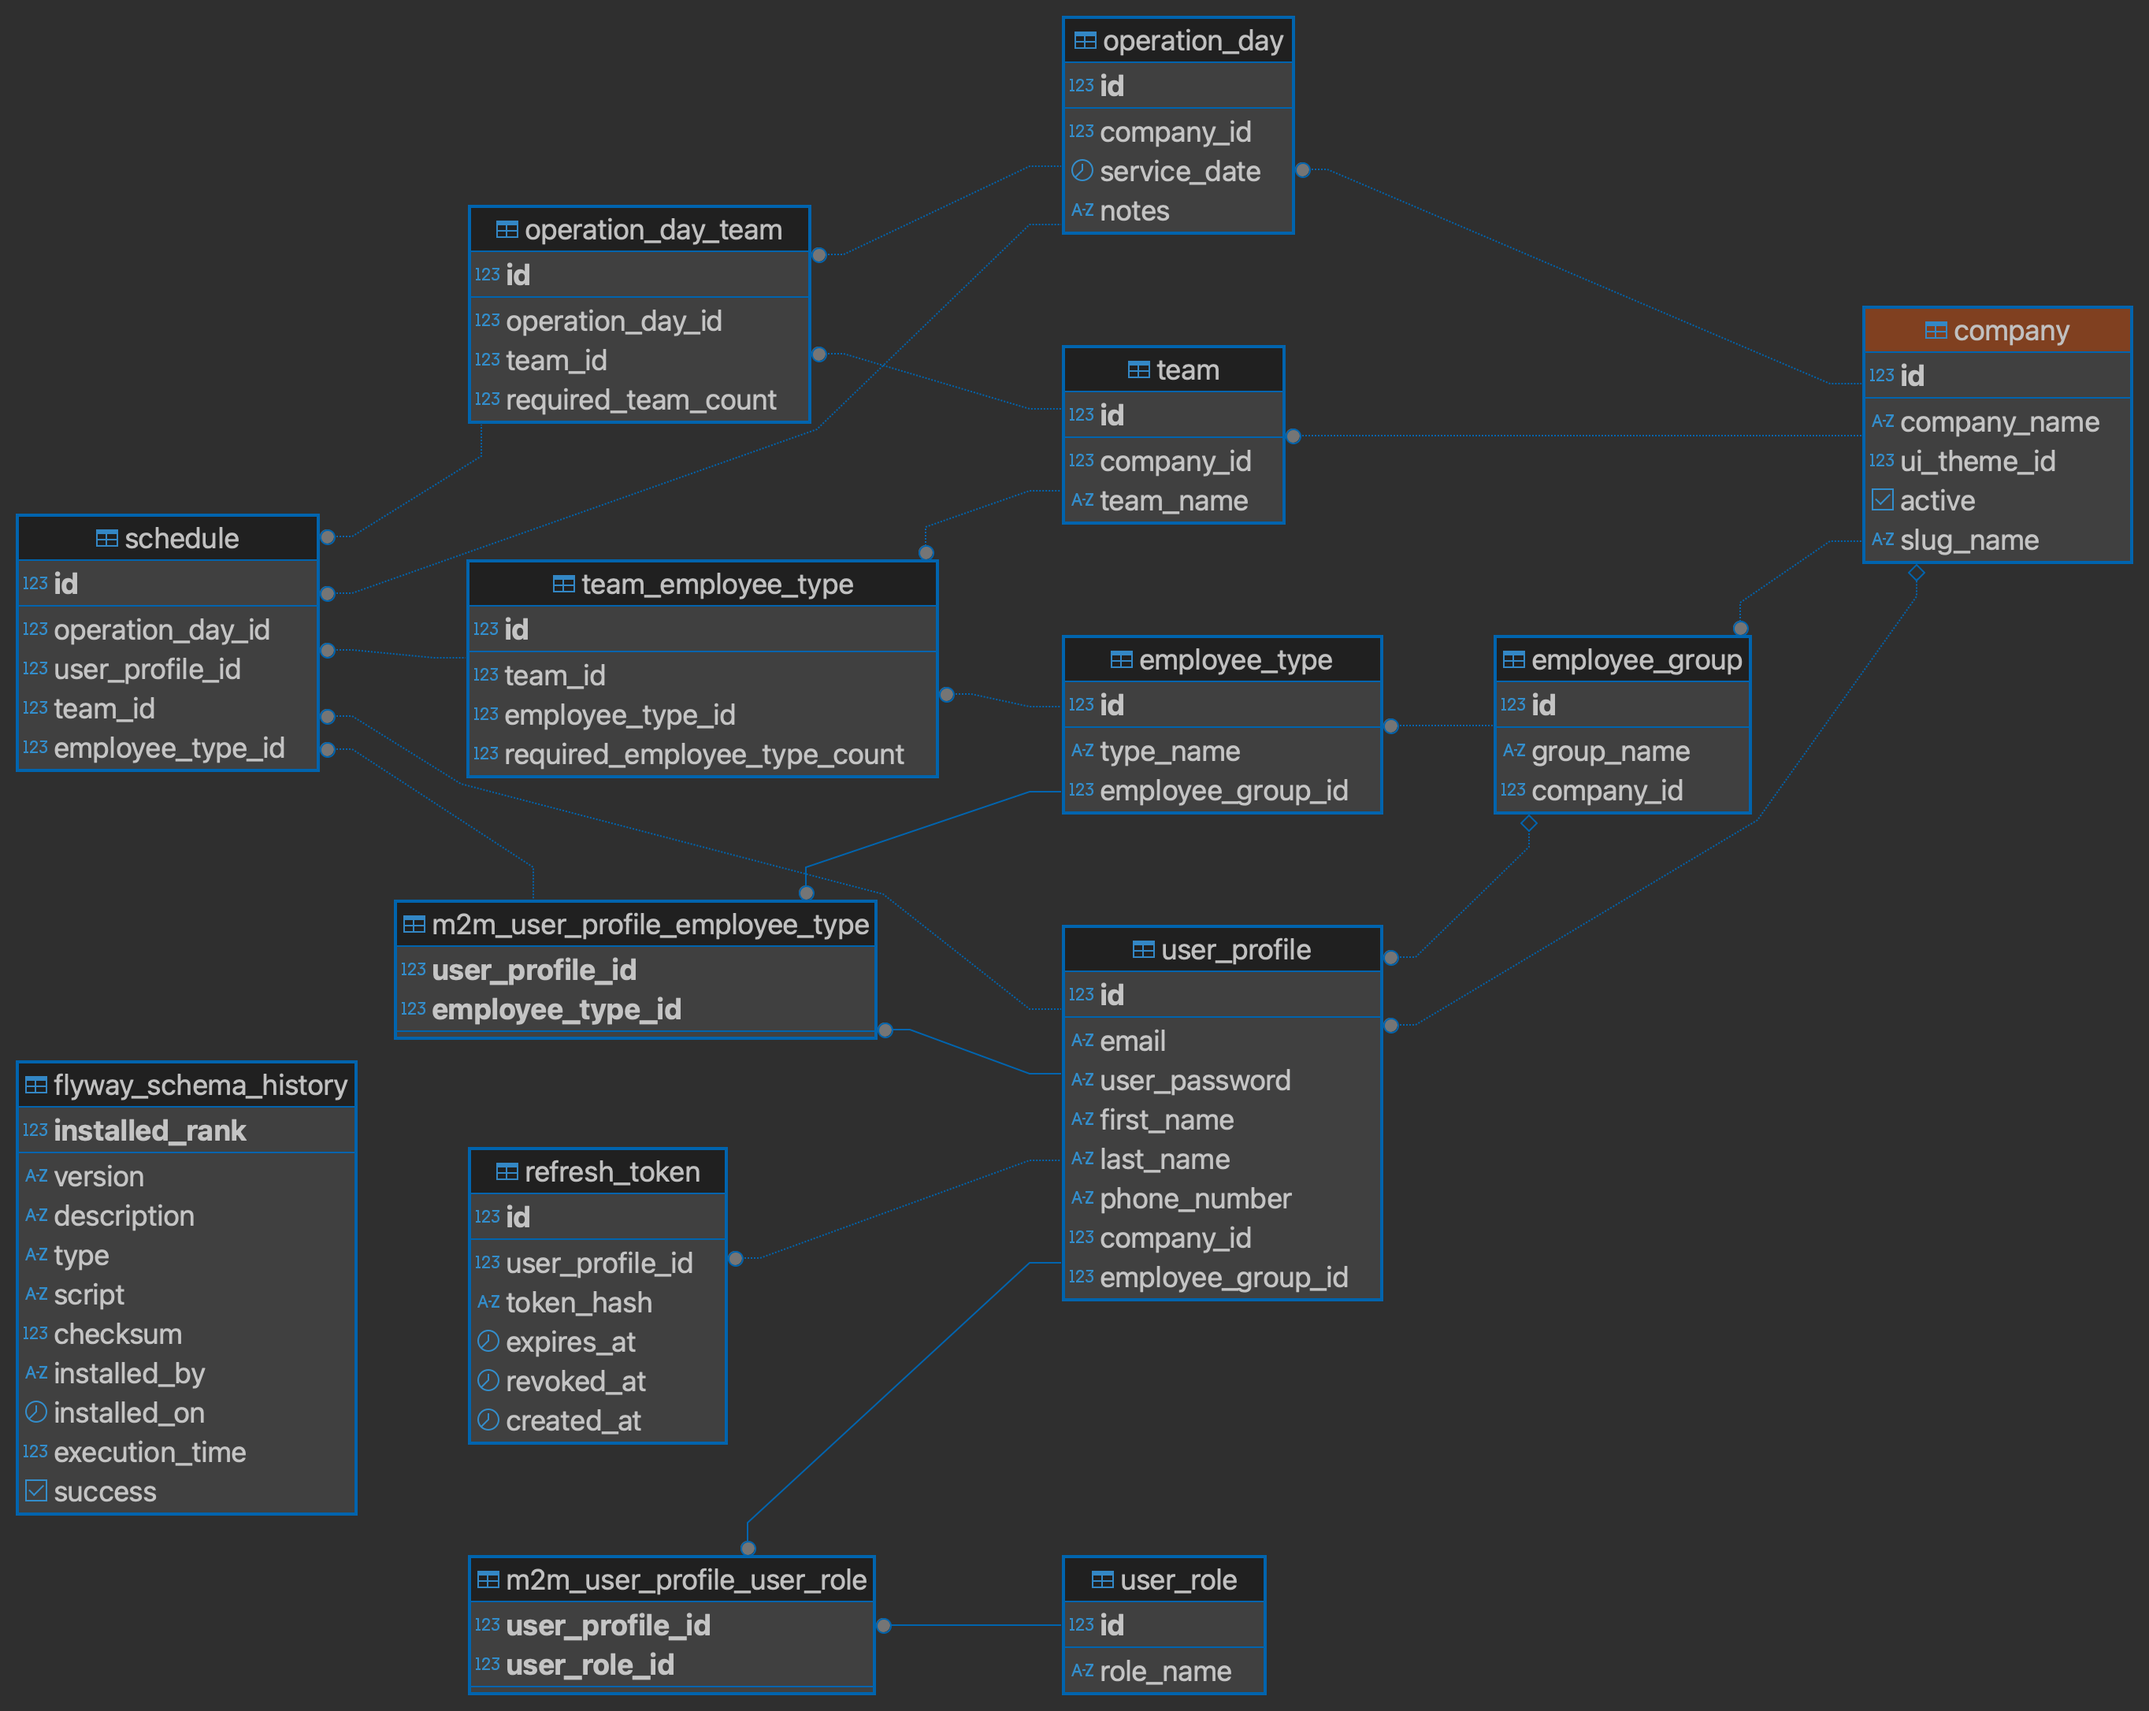
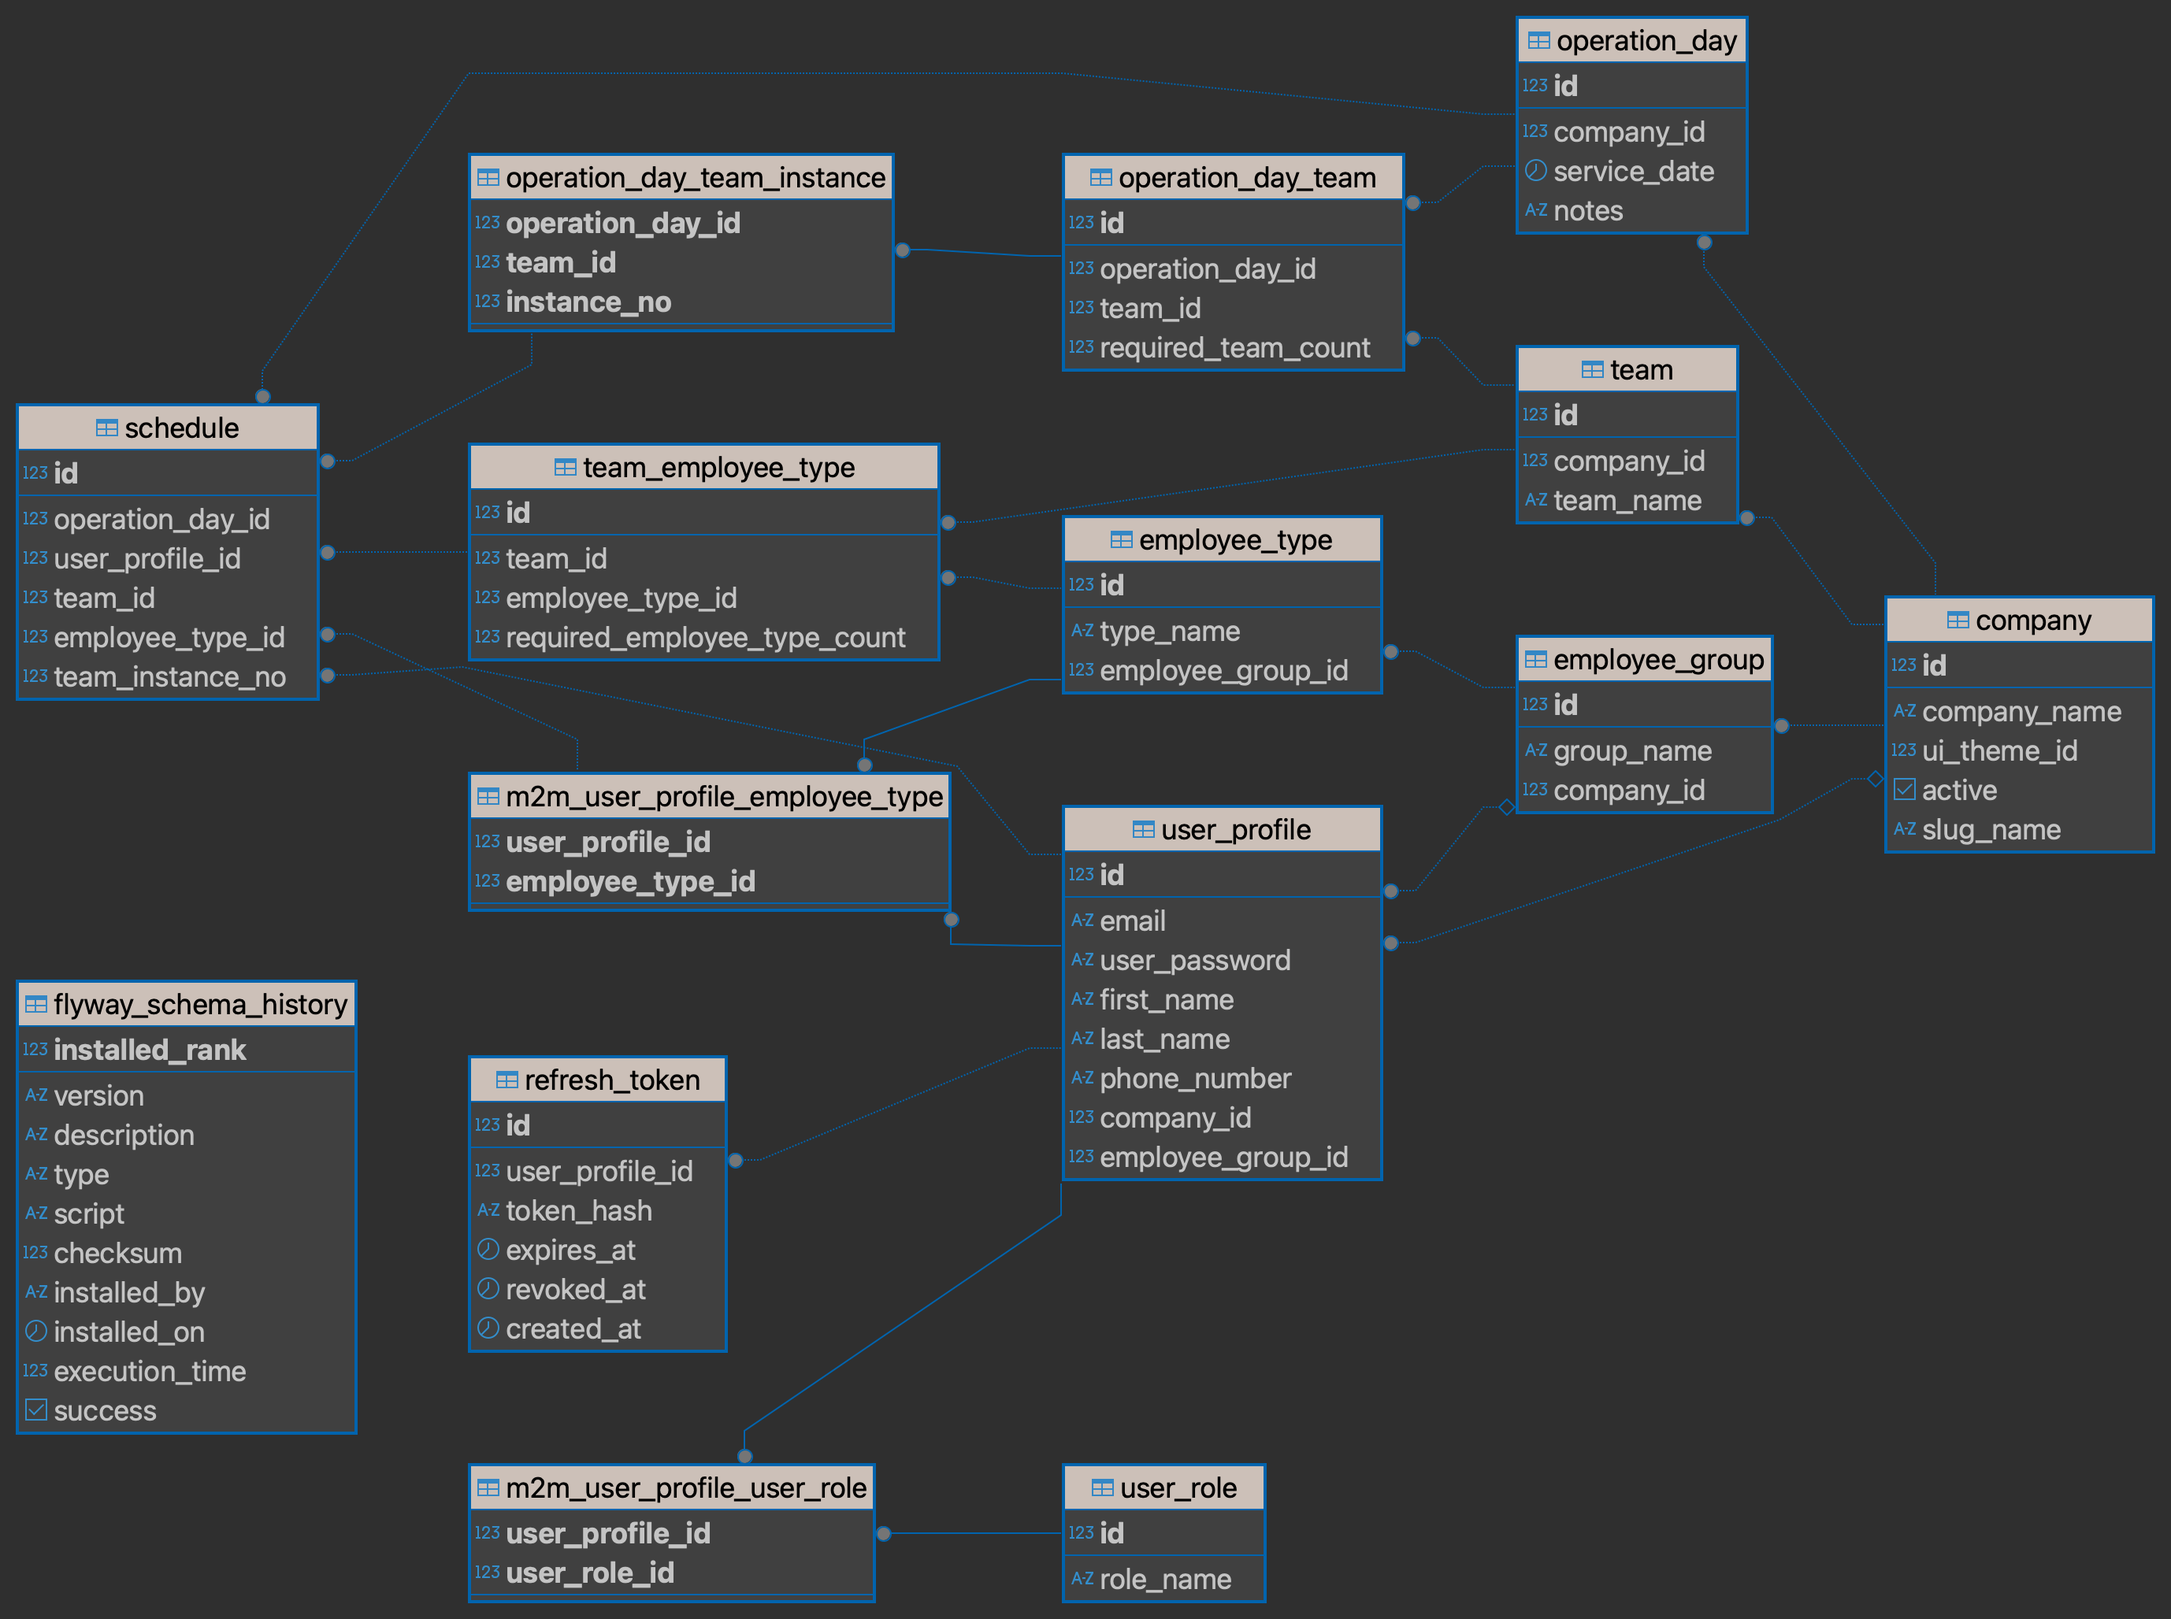
User employee type spot assignment

diff --git a/FaithfulPlanner/api/src/main/kotlin/com/sc/clinic/repository/ScheduleRepository.kt b/FaithfulPlanner/api/src/main/kotlin/com/sc/clinic/repository/ScheduleRepository.kt
@@ -20,10 +20,29 @@ interface ScheduleRepository : JpaRepository<Schedule, Long> {
 
     @Modifying
     @Query("""
-        INSERT INTO schedule(operation_day_id, user_profile_id)
-        VALUES (:operationDayId, :userProfileId)
+        INSERT INTO schedule(operation_day_id, user_profile_id, team_id, employee_type_id, team_instance_no)
+        VALUES (:operationDayId, :userProfileId, :teamId, :employeeTypeId, :teamInstanceNo)
     """, nativeQuery = true)
-    fun scheduleUser(operationDayId: Long, userProfileId: Long): Int
+    fun scheduleUser(
+        operationDayId: Long,
+        userProfileId: Long,
+        teamId: Long,
+        employeeTypeId: Long,
+        teamInstanceNo: Int
+    ): Int
+
+    @Query("""
+        select count(s) from Schedule s
+        where s.operationDay.id = :operationDayId
+        and s.team.id = :teamId
+        and s.teamInstanceNo = :teamInstanceNo
+        and s.employeeType.id = :employeeTypeId""")
+    fun countAssigned(
+        operationDayId: Long,
+        teamId: Long,
+        teamInstanceNo: Int,
+        employeeTypeId: Long
+    ): Long
 
     @Modifying
     @Query("""

diff --git a/FaithfulPlanner/api/src/main/kotlin/com/sc/clinic/repository/OperationDayTeamRepository.kt b/FaithfulPlanner/api/src/main/kotlin/com/sc/clinic/repository/OperationDayTeamRepository.kt
@@ -1,9 +1,19 @@
 package com.sc.clinic.repository
 
 import com.sc.clinic.entity.OperationDayTeam
+import jakarta.persistence.LockModeType
 import org.springframework.data.jpa.repository.JpaRepository
+import org.springframework.data.jpa.repository.Lock
+import org.springframework.data.jpa.repository.Query
 
 interface OperationDayTeamRepository: JpaRepository<OperationDayTeam, Long> {
     fun deleteByTeamId(teamId: Long): Long
     fun deleteByOperationDayId(operationDayId: Long): Long
+
+    @Lock(LockModeType.PESSIMISTIC_WRITE)
+    @Query("""
+        select odt from OperationDayTeam odt
+        where odt.operationDay.id = :operationDayId
+        and odt.team.id = :teamId""")
+    fun findForUpdate(operationDayId: Long, teamId: Long): OperationDayTeam?
 }

diff --git a/FaithfulPlanner/api/src/main/kotlin/com/sc/clinic/entity/OperationDayTeamInstance.kt b/FaithfulPlanner/api/src/main/kotlin/com/sc/clinic/entity/OperationDayTeamInstance.kt
@@ -1,0 +1,23 @@
+package com.sc.clinic.entity
+
+import jakarta.persistence.*
+import java.io.Serializable
+
+@Embeddable
+data class OperationDayTeamInstanceId(
+    @Column(name = "operation_day_id", nullable = false)
+    var operationDayId: Long,
+
+    @Column(name = "team_id", nullable = false)
+    var teamId: Long,
+
+    @Column(name = "instance_no", nullable = false)
+    var instanceNo: Int
+) : Serializable
+
+@Entity
+@Table(name = "operation_day_team_instance")
+class OperationDayTeamInstance(
+    @EmbeddedId
+    var id: OperationDayTeamInstanceId
+)

diff --git a/FaithfulPlanner/api/src/main/kotlin/com/sc/clinic/entity/Schedule.kt b/FaithfulPlanner/api/src/main/kotlin/com/sc/clinic/entity/Schedule.kt
@@ -15,6 +15,17 @@ class Schedule(
 
     @ManyToOne(fetch = FetchType.LAZY)
     @JoinColumn(name = "user_profile_id", nullable = false)
-    var userProfile: UserProfile
+    var userProfile: UserProfile,
+
+    @ManyToOne(fetch = FetchType.LAZY)
+    @JoinColumn(name = "team_id", nullable = false)
+    var team: Team,
+
+    @ManyToOne(fetch = FetchType.LAZY)
+    @JoinColumn(name = "employee_type_id", nullable = false)
+    var employeeType: EmployeeType,
+
+    @Column(name = "team_instance_no", nullable = false)
+    var teamInstanceNo: Int
 )
 
